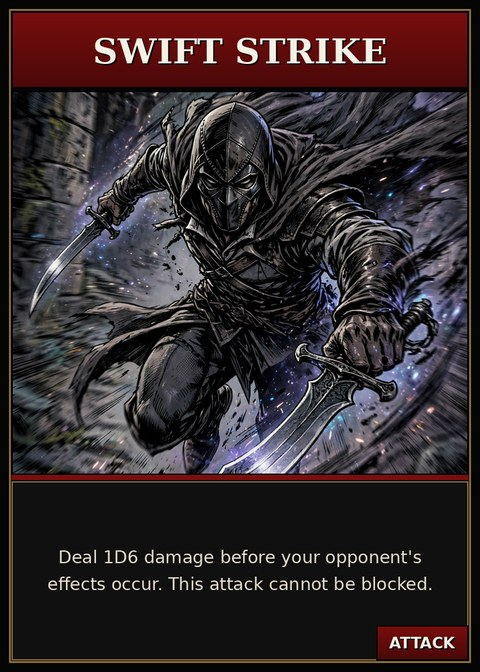
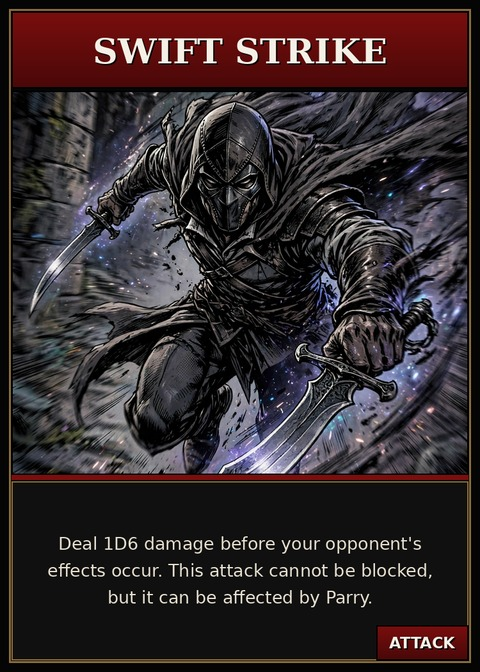
ATTACTIX errata: Parry still affects Swift Strike wording + images

Changed region(s): [[0.0938, 0.7812, 0.9062, 0.9062]]

diff --git a/attactix/index.html b/attactix/index.html
@@ -150,7 +150,7 @@
   <ol class="steps">
     <li><strong>Setup:</strong> 30 life each. Both players hold the same 8 cards.</li>
     <li><strong>Each turn:</strong> secretly pick 1 card, then reveal together.</li>
-    <li><strong>Combat:</strong> attacks roll D6s. <strong>Swift Strike</strong> hits first and cannot be blocked. <strong>Block</strong> stops all other damage. <strong>Parry</strong> steals 1D6 and deals its face value back.</li>
+    <li><strong>Combat:</strong> attacks roll D6s. <strong>Swift Strike</strong> hits first and cannot be blocked, but Parry still affects it. <strong>Block</strong> stops all other damage. <strong>Parry</strong> steals 1D6 and deals its face value back.</li>
     <li><strong>Cycles:</strong> played cards stay face-up. When all 8 are spent, take them back and begin a new cycle. Life carries over.</li>
     <li><strong>Winning:</strong> drop your rival to 0 life to win. Both hit 0: draw.</li>
   </ol>
@@ -173,7 +173,7 @@
     <li><strong>Parry interception.</strong> Each player who played Parry chooses <strong>one</strong> D6 from an opponent's attack roll &mdash; after the roll, but before the attacker discards or makes any tie-break choices. Parry deals damage equal to that D6's face value to the attacker, then that D6 is removed. The attack resolves without it.</li>
     <li><strong>Resolve.</strong> All remaining effects happen <strong>simultaneously</strong>, with two exceptions:
       <ul class="tight">
-        <li><strong>Swift Strike</strong> damage resolves <em>before</em> all other effects &mdash; but <em>after</em> any Parry interception &mdash; and it cannot be prevented by Block. If both players' Swift Strikes (or a Swift Strike and a Copy Cat copying one) meet, they resolve at the same time as each other.</li>
+        <li><strong>Swift Strike</strong> damage resolves <em>before</em> all other effects &mdash; but <em>after</em> any Parry interception &mdash; and it cannot be prevented by Block. Parry still affects Swift Strike normally. If both players' Swift Strikes (or a Swift Strike and a Copy Cat copying one) meet, they resolve at the same time as each other.</li>
         <li><strong>Parry</strong> interception (step 4) always happens before damage is calculated, which is how it catches even Swift Strike.</li>
       </ul>
     </li>
@@ -202,7 +202,7 @@
       <div class="vbody">
         <span class="badge attack">ATTACK</span>
         <h3>Swift Strike</h3>
-        <p>Roll 1D6, deal it &mdash; before everything else (after Parry). Can finish a rival before Recover resolves. Block can't stop it.</p>
+        <p>Roll 1D6, deal it &mdash; before everything else (after Parry). Can finish a rival before Recover resolves. Block can't stop it, but Parry can.</p>
       </div>
     </div>
     <div class="vcard">

diff --git a/attactix.html b/attactix.html
@@ -111,7 +111,7 @@
     <ol>
       <li><b>Setup:</b> 30 life each. Both players hold the same 8 cards.</li>
       <li><b>Each turn:</b> secretly pick 1 card, then reveal together.</li>
-      <li><b>Combat:</b> attacks roll D6s. <b>Swift Strike</b> hits first and cannot be blocked. <b>Block</b> stops all other damage. <b>Parry</b> steals a die and deals its face value back.</li>
+      <li><b>Combat:</b> attacks roll D6s. <b>Swift Strike</b> hits first and cannot be blocked, but Parry still affects it. <b>Block</b> stops all other damage. <b>Parry</b> steals a die and deals its face value back.</li>
       <li><b>Cycles:</b> played cards stay face-up where both players can see them. When all 8 are spent, take them back — life carries over.</li>
       <li><b>Winning:</b> drop your rival to 0 life. Both hit 0 on the same turn: draw.</li>
     </ol>
